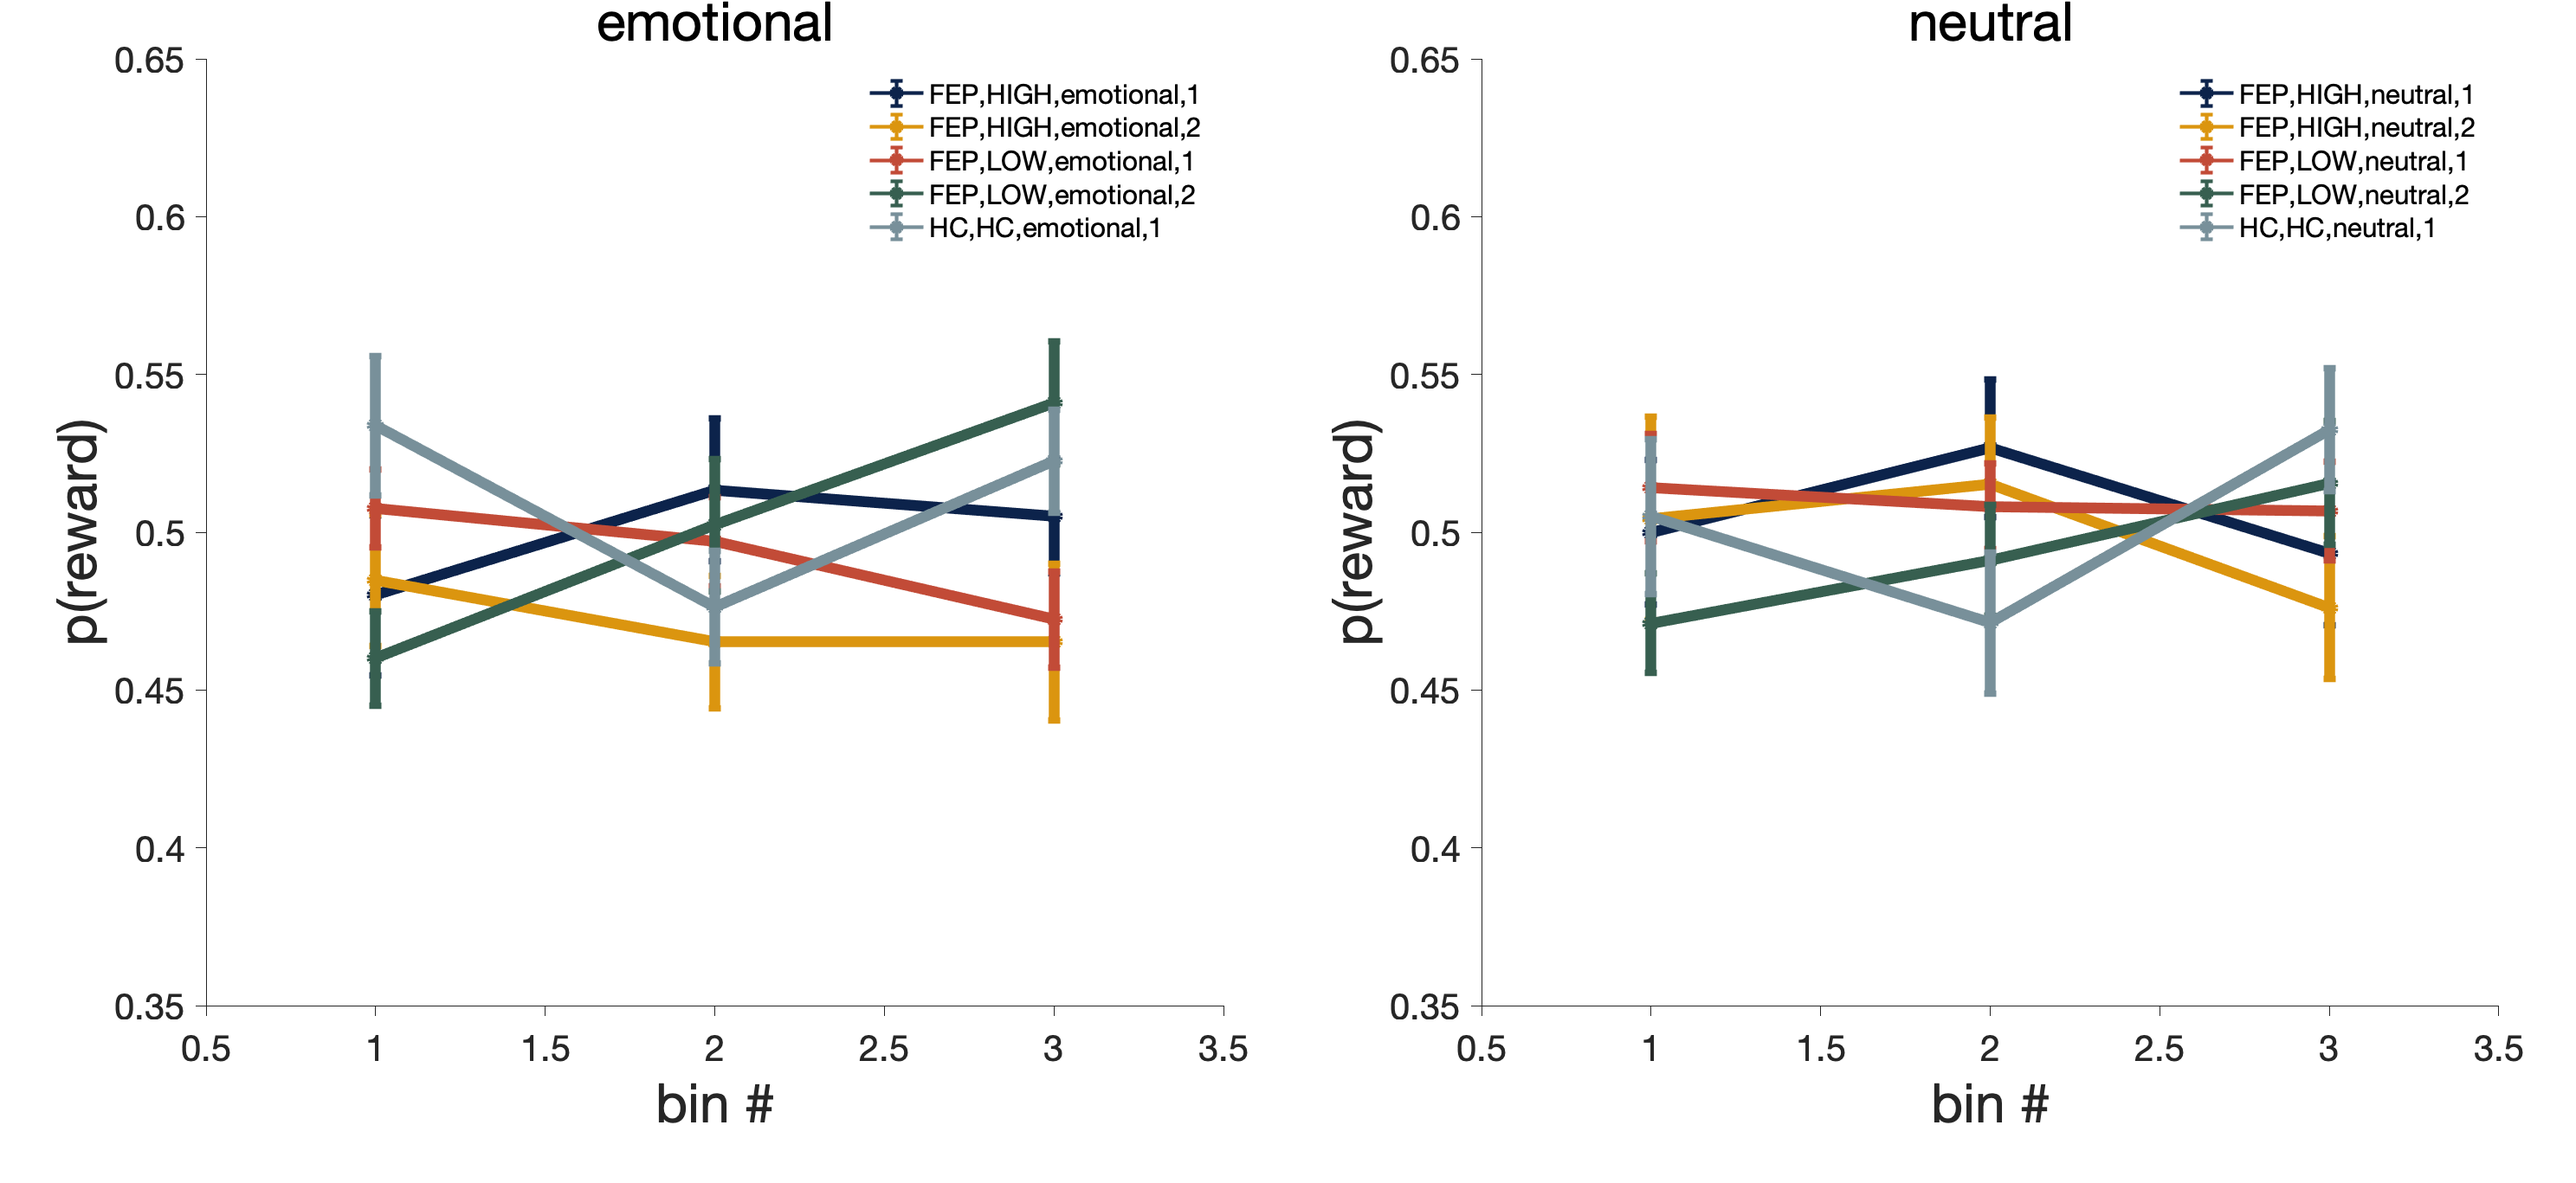
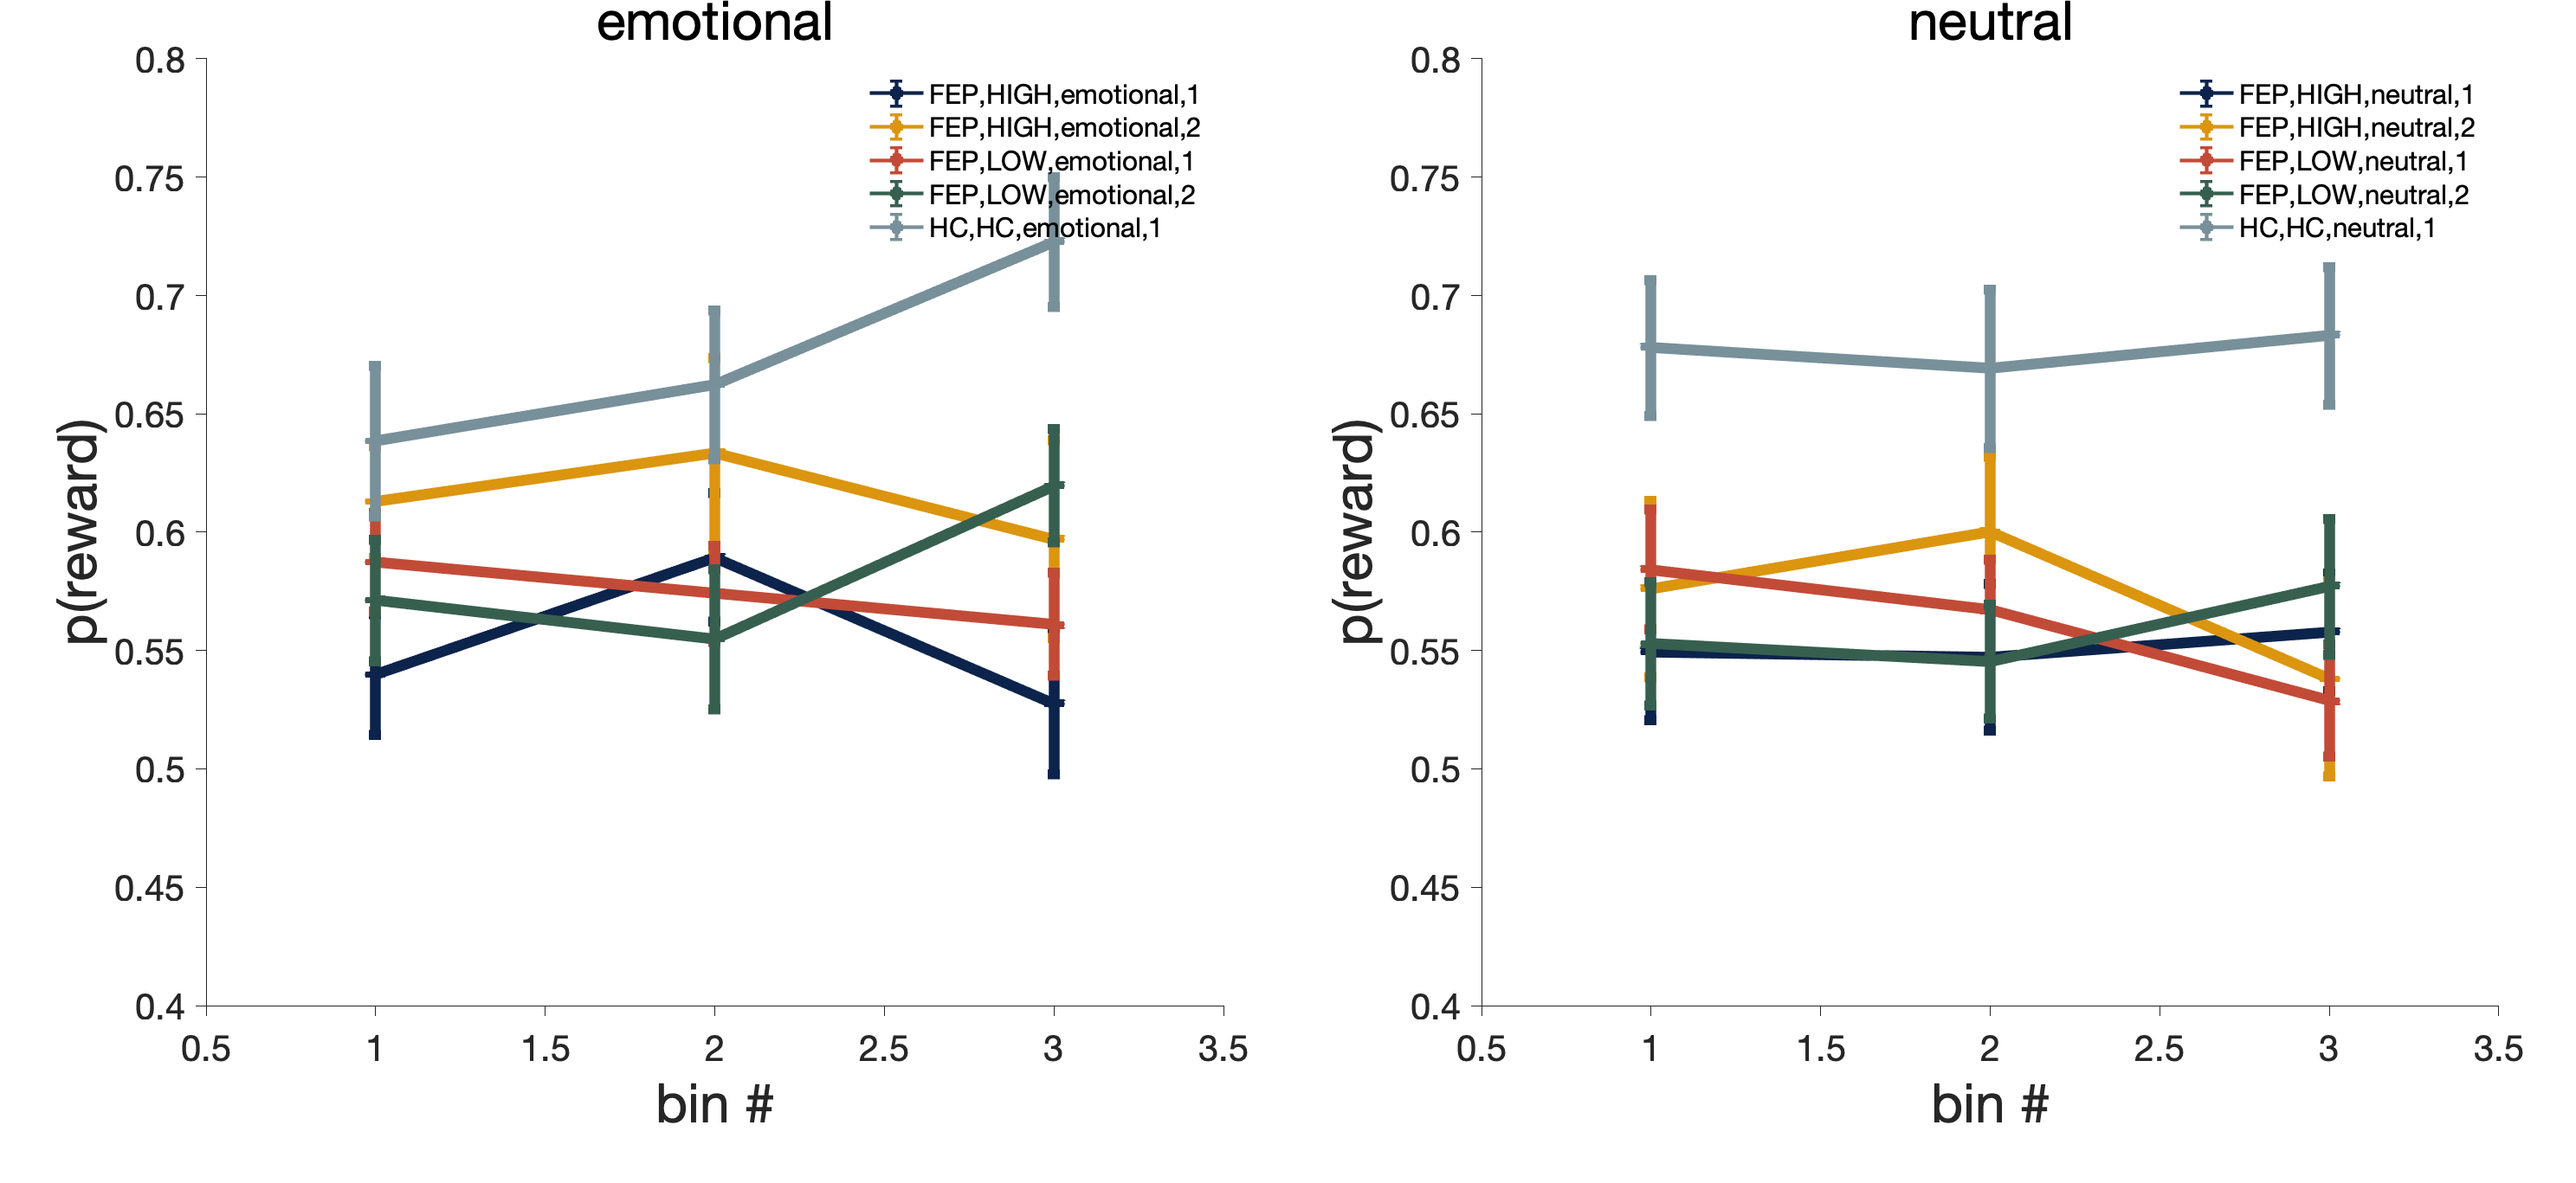
add RT/repeat

diff --git a/codes/main_behavior.m b/codes/main_behavior.m
@@ -33,6 +33,18 @@ for i = 1:2
 end
 plt.update;
 plt.save('preward');
+%% figure p(repeat)
+plt.figure(1,2);
+plt.setfig('ylim', [0.4 0.8], 'xlim', [0.5 3.5], ...
+    'color', cols, 'xlabel', 'bin #', 'ylabel', 'p(reward)', 'title', blocktype);
+for i = 1:2
+    plt.ax(1,i);
+    plt.setfig_ax('legend', gpname(btid{i}));
+    tgp = gp(btid{i},:);
+    plt.lineplot(tgp.av_bin_all_c_repeat, tgp.ste_bin_all_c_repeat);
+end
+plt.update;
+plt.save('preward');
 %% figure p(ac)
 plt.figure(1,2);
 plt.setfig('ylim', [0.4 0.75], 'xlim', [0.5 3.5], ...
@@ -46,6 +58,19 @@ for i = 1:2
 end
 plt.update;
 plt.save('pcorrect');
+%% figure RT
+plt.figure(1,2);
+plt.setfig( 'xlim', [0.5 3.5], ...
+    'color', cols, 'xlabel', 'bin #', 'ylabel', 'RT', 'title', blocktype, ...
+    'legloc', 'NorthWest');
+for i = 1:2
+    plt.ax(1,i);
+    plt.setfig_ax('legend', gpname(btid{i}));
+    tgp = gp(btid{i},:);
+    plt.lineplot(tgp.av_bin_all_RT, tgp.ste_bin_all_RT);
+end
+plt.update;
+plt.save('RT');
 %% figure p(happy vs angry)
 plt.figure(1,2);
 plt.setfig('ylim', [0.3 0.7], 'xlim', [0.5 3.5], ...

diff --git a/codes/behavior_Charlotte.m b/codes/behavior_Charlotte.m
@@ -2,10 +2,10 @@ function out = behavior_Charlotte(x)
     % trial number analysis
     bin = [0.5:10:30.5];
     nbin = length(bin)-1;
-    te = W_tools.analysis_bincurve(x, {'c_X', 'c_ac_X', ...
-        'Rewarded'}, [], bin);
-    out = W_tools.analysis_bincurve(x, {'c_X', 'c_ac_X', ...
-        'Rewarded'}, [], bin,'all');
+    te = W_tools.analysis_bincurve(x, {'c_X', 'c_repeat', 'c_ac_X', ...
+        'Rewarded', 'RT'}, [], bin);
+    out = W_tools.analysis_bincurve(x, {'c_X', 'c_repeat', 'c_ac_X', ...
+        'Rewarded', 'RT'}, [], bin,'all');
     win = x.win_X;
     for wi = 1:2
         out.p_ac_byX(wi) = nanmean(te.bin_byrow_c_ac_X(wi == win, nbin));

diff --git a/codes/preprocess_Charlotte.m b/codes/preprocess_Charlotte.m
@@ -18,6 +18,8 @@ function game = preprocess_Charlotte(game)
     game.c_X(idx_emotion,:) = game.c_happy(idx_emotion,:);
     game.c_X(~idx_emotion,:) = game.c_face(~idx_emotion,:);
     
+    game.c_repeat = [NaN(height(game),1), W.nan_equal(game.c_X(:, 1:end-1), game.c_X(:, 2:end))];
+    
     game.winrate_X(idx_emotion) = game.winrate_happy(idx_emotion);
     game.winrate_X(~idx_emotion) = game.winrate_face(~idx_emotion);
     
